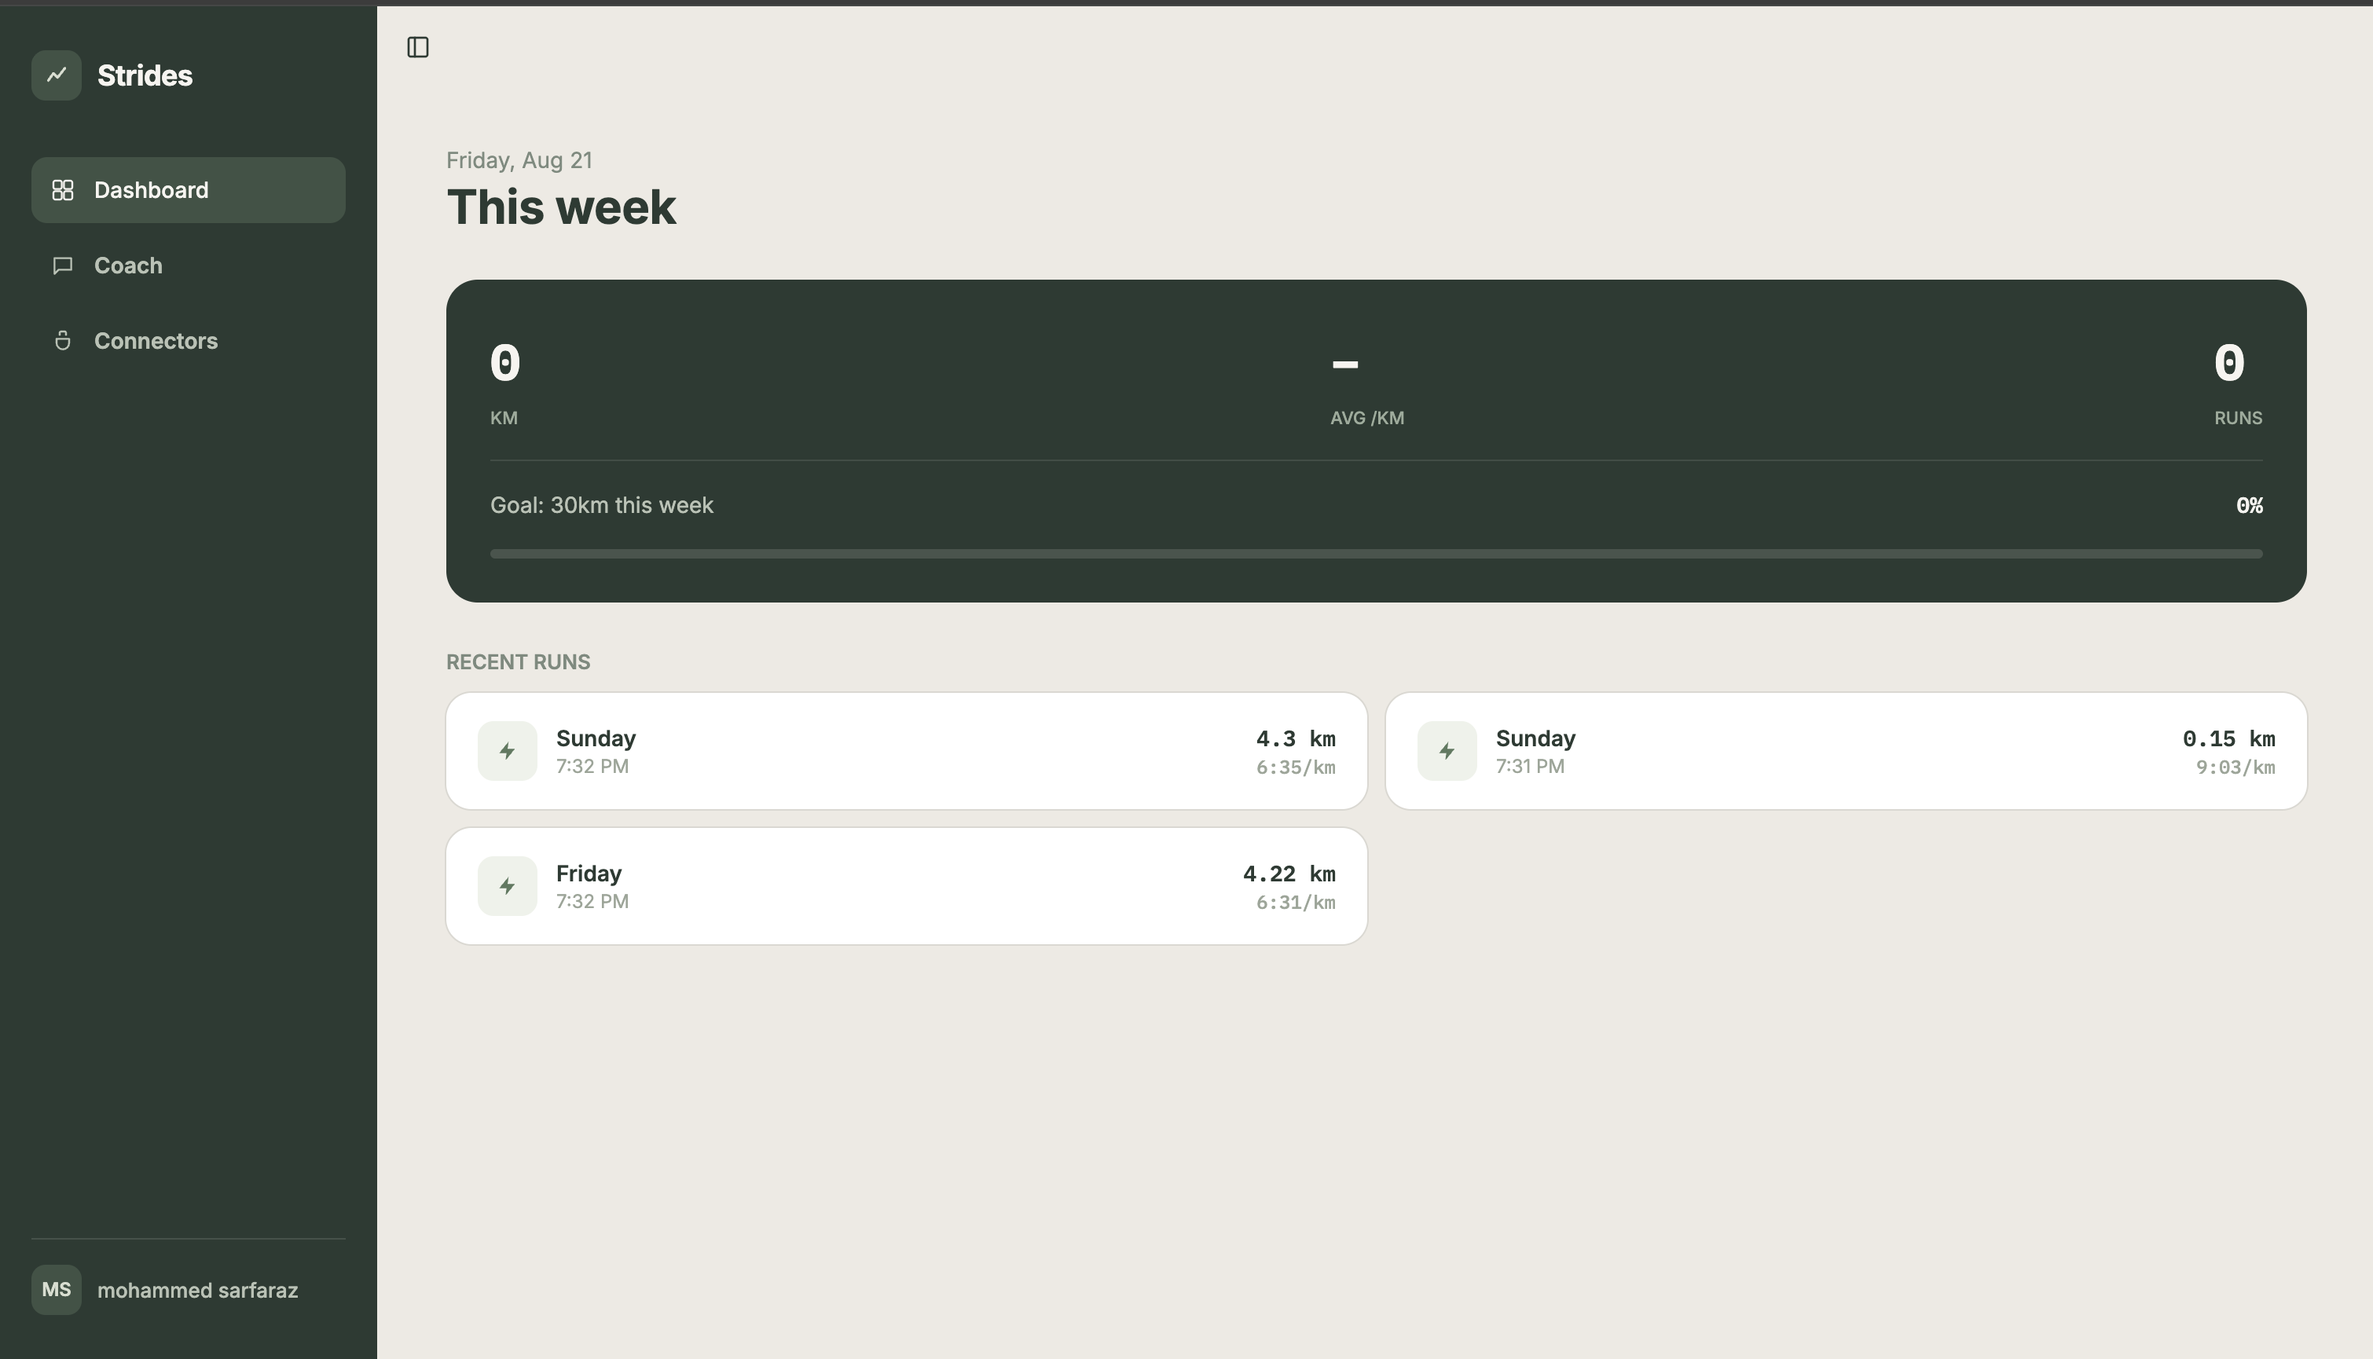
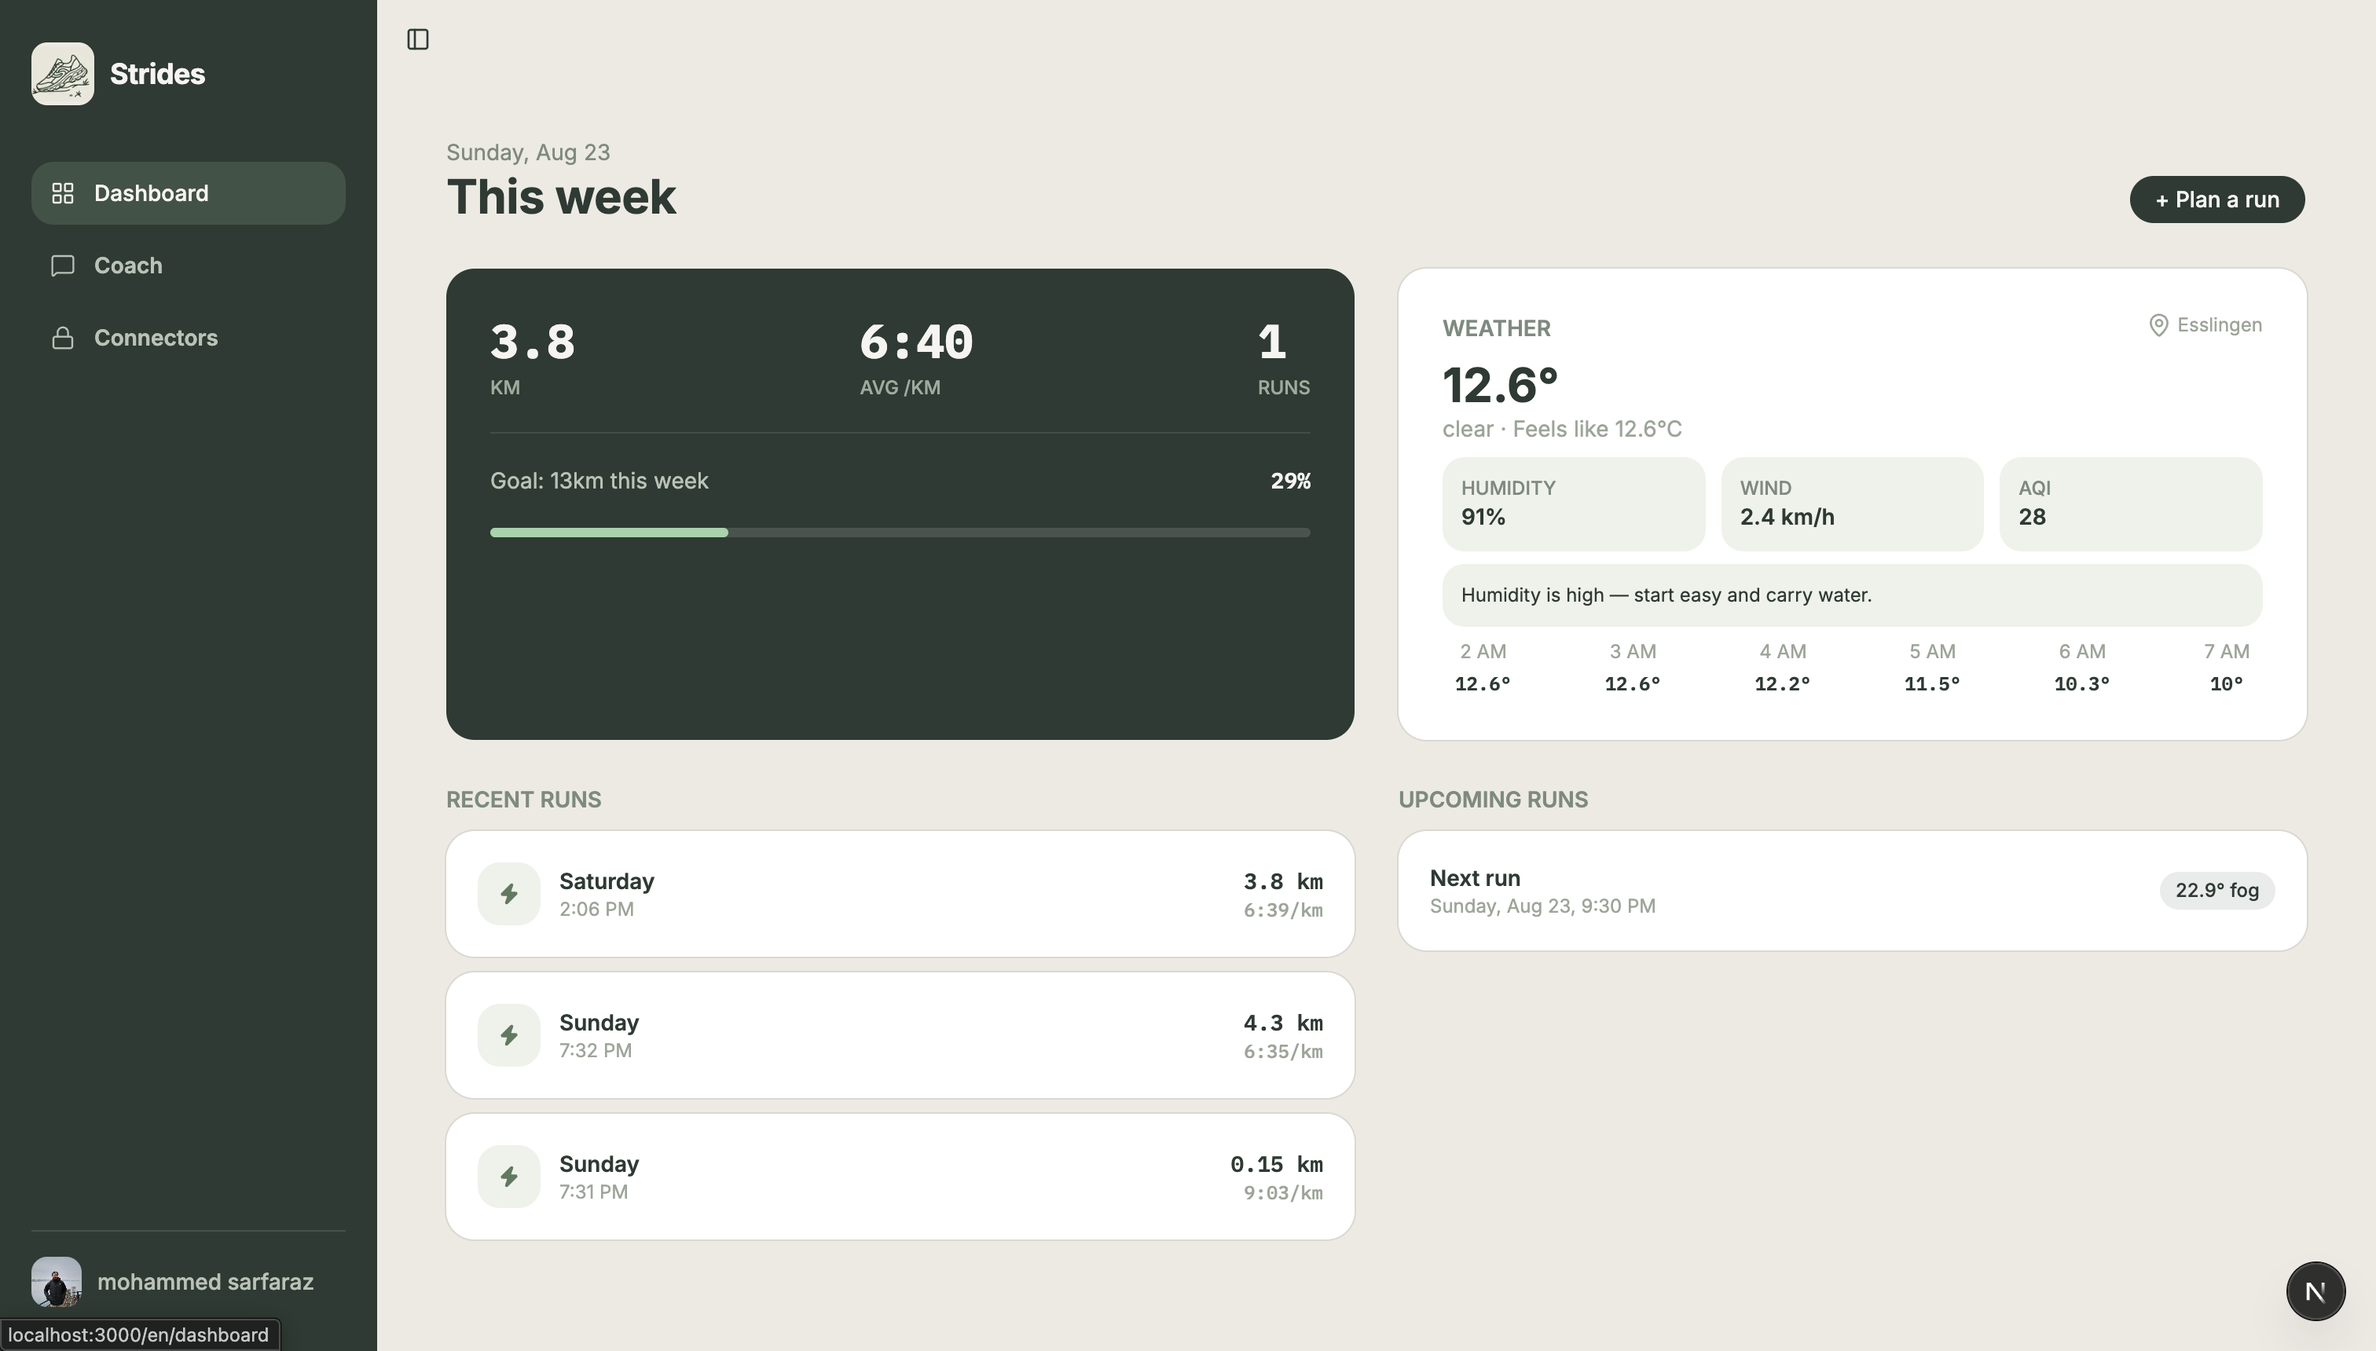
docs(readme): update README with latest features and refresh screenshots
Documents the Google Calendar connector, weather integration, PWA
installability, and restyles the header with logo/badges/live-demo link.
Adds an iOS home-screen icon (apple-icon.png) so Add to Home Screen
matches the Android manifest icon instead of falling back to a page
screenshot. Also includes a profile-screen spacing/truncation fix.

diff --git a/frontend/components/profile-screen.tsx b/frontend/components/profile-screen.tsx
@@ -150,7 +150,7 @@ export function ProfileScreen({ locale }: { locale: string }) {
 
   return (
     <div className="flex-1 overflow-y-auto px-4 lg:mx-auto lg:w-full lg:max-w-[960px] lg:px-0 lg:pb-9">
-      <div className="mb-3">
+      <div className="mb-3 mt-4 lg:mt-1">
         <SectionLabel>{t("eyebrow")}</SectionLabel>
         <div className="text-2xl font-bold tracking-[-0.3px] text-primary lg:text-3xl">{t("title")}</div>
       </div>
@@ -159,24 +159,18 @@ export function ProfileScreen({ locale }: { locale: string }) {
       {error && <div className="mb-4 rounded-xl bg-danger/10 p-3 text-sm text-danger">{t("saveFailed")}</div>}
 
       <div className="mb-3 flex flex-col gap-4 rounded-xl bg-primary p-6 lg:mb-4 lg:gap-5 lg:p-7">
-        <div className="flex items-start justify-between gap-3">
-          <div className="flex items-center gap-3.5 lg:gap-4">
-            <Button
-              type="button"
-              variant="ghost"
-              onClick={triggerUpload}
-              disabled={isUploading}
-              className="group relative h-auto flex-none rounded-xl p-0 hover:bg-transparent"
-            >
+        <div className="flex items-center justify-between gap-3">
+          <div className="flex min-w-0 items-center gap-3.5 lg:gap-4">
+            <Button type="button" variant="ghost" onClick={triggerUpload} disabled={isUploading} className="group relative h-auto flex-none rounded-xl p-0 hover:bg-transparent">
               <Avatar user={user} size="lg" />
               <div className="absolute inset-0 flex items-center justify-center rounded-full bg-black/50 opacity-0 transition-opacity group-hover:opacity-100">
                 {isUploading ? <div className="h-5 w-5 animate-spin rounded-full border-2 border-white border-t-transparent" /> : <Camera size={18} className="text-white" />}
               </div>
             </Button>
             <input ref={fileInputRef} type="file" accept="image/jpeg,image/png" aria-label={t("changeAvatar")} className="hidden" onChange={onFileChosen} />
-            <div>
-              <div className="text-lg font-bold text-primary-foreground lg:text-2xl">{displayName}</div>
-              <div className="text-sm text-goal-label lg:text-sm">{user?.email ?? ""}</div>
+            <div className="min-w-0">
+              <div className="truncate text-lg font-bold text-primary-foreground lg:text-2xl">{displayName}</div>
+              <div className="truncate text-sm text-goal-label lg:text-sm">{user?.email ?? ""}</div>
             </div>
           </div>
           <Button
@@ -289,7 +283,7 @@ export function ProfileScreen({ locale }: { locale: string }) {
         </div>
       </Card>
 
-      <Card className="gap-0 rounded-xl px-4 py-1 lg:px-6">
+      <Card className="mt-3 gap-0 rounded-xl px-4 py-1 lg:mt-4 lg:px-6">
         <SectionLabel className="pt-3">{t("account")}</SectionLabel>
         <div className="flex items-center justify-between gap-3 py-3.5">
           <div>

diff --git a/README.md b/README.md
@@ -1,8 +1,21 @@
-# Strides
+<div align="center">
+  <img src="frontend/public/icon-192.png" alt="Strides logo" width="96" height="96" />
 
-**A personal running coach agent that lives in your browser.**
+  # Strides
 
-Strides connects to your Google Health data, understands your training history, and lets you chat with an AI coach about your runs — pace trends, weekly mileage, recovery, whatever you'd ask a real coach. It's a full-stack agent application: a custom MCP server for tool use, a streaming chat loop backed by Claude, long-term memory across conversations, and multi-user auth with encrypted token storage.
+  ### Your running coach, always on.
+
+  Strides connects to your Google Health data, understands your training history, and lets you chat with an AI coach about your runs — pace trends, weekly mileage, recovery, whatever you'd ask a real coach. It also connects to Google Calendar so the coach can plan runs and check your schedule. It's a full-stack agent application: a custom MCP server for tool use, a streaming chat loop backed by Claude, long-term memory across conversations, and multi-user auth with encrypted token storage. It's also an installable PWA — add it to your home screen on Android or iPhone and it runs like a native app.
+
+  **[Live demo →](https://strides-inky.vercel.app)**
+
+  ![Next.js](https://img.shields.io/badge/frontend-Next.js-black)
+  ![FastAPI](https://img.shields.io/badge/backend-FastAPI-009688)
+  ![Python](https://img.shields.io/badge/python-3.11+-3776AB)
+  ![MCP](https://img.shields.io/badge/tool%20use-MCP-6366F1)
+  ![PWA](https://img.shields.io/badge/installable-PWA-5A0FC8)
+  ![Deploy](https://img.shields.io/badge/deployed-Cloud%20Run%20%2B%20Vercel-4285F4)
+</div>
 
 ## Screenshots
 
@@ -11,9 +24,19 @@ Strides connects to your Google Health data, understands your training history, 
   <img src="docs/images/sign-in.png" alt="Sign-in screen" width="70%" />
 </p>
 
-**Dashboard**
+**Dashboard** — weekly stats, weather, recent and upcoming runs
 <p align="center">
   <img src="docs/images/dashboard.png" alt="Dashboard screen" width="70%" />
+</p>
+
+**Coach** — chat with the agent about your training
+<p align="center">
+  <img src="docs/images/coach.png" alt="Coach chat screen" width="70%" />
+</p>
+
+**Connectors** — Google Health and Google Calendar
+<p align="center">
+  <img src="docs/images/connectors.png" alt="Connectors screen" width="70%" />
 </p>
 
 **Profile & preferences**
@@ -25,23 +48,24 @@ Strides connects to your Google Health data, understands your training history, 
 
 ```
 +----------------+         +----------------+         +----------------+
-|    Next.js     |         |    FastAPI     |         |   MCP Server   |
-|    frontend    | <------>|    backend     | <------>|   (fit_server) |
-|    (Vercel)    | HTTP/SSE|  (Cloud Run)   |JWT/JWKS |  (Cloud Run)   |
+|    Next.js     |         |    FastAPI     |         |  MCP Servers   |
+|    frontend    | <------>|    backend     | <------>| (fit_server,   |
+|    (Vercel)    | HTTP/SSE|  (Cloud Run)   |JWT/JWKS |  calendar_srv) |
 +----------------+         +----------------+         +----------------+
 
                                     |                          |
                                     v                          v
-                           +----------------+         +----------------+
-                           |    Postgres    |         | Google Health  |
-                           |   (Supabase)   |         |      API       |
-                           +----------------+         +----------------+
+                           +----------------+       +------------------------+
+                           |    Postgres    |       | Google Health API,     |
+                           |   (Supabase)   |       | Google Calendar API,   |
+                           +----------------+       | Open-Meteo (weather)   |
+                                                     +------------------------+
 ```
 
 - **Frontend** — Next.js app (dashboard, chat, connectors, profile). Talks to the backend over HTTP, streams chat responses via SSE.
-- **Backend** — FastAPI. Owns user sessions (Google OAuth), the Claude tool-use chat loop, and per-user preferences/memory. Signs a short-lived JWT per request to call the MCP server on the user's behalf.
-- **MCP server** — a Model Context Protocol server exposing tools (`get_runs`, `get_recent_runs`, `get_weekly_stats`, …) that fetch and aggregate a user's data from the **Google Health API**. Independently verifies the backend's JWT via a JWKS endpoint — it never trusts the backend blindly.
-- **Postgres (Supabase)** — users, sessions, encrypted OAuth tokens, preferences, chat history, and long-term agent memory (facts the agent chooses to remember across conversations, e.g. "training for a half marathon in October").
+- **Backend** — FastAPI. Owns user sessions (Google OAuth), the Claude tool-use chat loop, and per-user preferences/memory. Signs a short-lived JWT per request to call each MCP server on the user's behalf, and fetches weather for the dashboard.
+- **MCP servers** — two Model Context Protocol servers, one per connector: `fit_server` exposes tools (`get_runs`, `get_recent_runs`, `get_weekly_stats`, …) over the **Google Health API**; `calendar_server` exposes tools for reading and planning events over the **Google Calendar API**. Each independently verifies the backend's JWT via a JWKS endpoint — neither trusts the backend blindly.
+- **Postgres (Supabase)** — users, sessions, encrypted OAuth tokens (Health and Calendar, separately), preferences, chat history, and long-term agent memory (facts the agent chooses to remember across conversations, e.g. "training for a half marathon in October").
 
 **Note on the data source:** this talks to the **Google Health API** (`health.googleapis.com`), not the old Google Fit REST API — that one is closed to new developers and being fully deprecated. Google Health is backed by Fitbit's account system; a user needs data actually synced there (not just the Google Fit app) for the API to return anything.
 
@@ -49,11 +73,12 @@ Strides connects to your Google Health data, understands your training history, 
 
 | Layer | Stack |
 |---|---|
-| Frontend | Next.js, TypeScript, Tailwind, shadcn/ui, next-intl (en/de), React Query |
+| Frontend | Next.js, TypeScript, Tailwind, shadcn/ui, next-intl (en/de), React Query, installable PWA (manifest + service worker, Android/iOS home-screen install) |
 | Backend | FastAPI, Python, Anthropic SDK (Claude), `uv` for dependency management |
-| MCP server | Python, [MCP SDK](https://github.com/modelcontextprotocol) (Streamable HTTP transport) |
+| MCP servers | Python, [MCP SDK](https://github.com/modelcontextprotocol) (Streamable HTTP transport) |
 | Database | Postgres (Supabase), AES-256-GCM at-rest token encryption |
-| Auth | Google OAuth 2.0 (identity + separate Health-data grant), RS256 JWT + JWKS for backend↔MCP auth |
+| Auth | Google OAuth 2.0 (identity + separate Health-data and Calendar-data grants), RS256 JWT + JWKS for backend↔MCP auth |
+| Weather | Open-Meteo (forecast + air quality APIs) |
 | Infra | Docker, Google Cloud Run, Artifact Registry, GitHub Actions (Workload Identity Federation — no stored service account keys), Vercel |
 | Observability | Langfuse (LLM call tracing) |
 
@@ -61,7 +86,7 @@ Strides connects to your Google Health data, understands your training history, 
 
 Requires [`uv`](https://docs.astral.sh/uv/) (Python) and Node.js (for the frontend).
 
-**1. Backend + MCP server**
+**1. Backend + MCP servers**
 
 ```bash
 uv sync
@@ -80,8 +105,9 @@ TOKEN_ENCRYPTION_KEY=
 `DATABASE_URL` points at a Postgres instance (Supabase locally or otherwise) — the schema is created automatically on startup, no manual migration step. `TOKEN_ENCRYPTION_KEY` is a symmetric AES-256-GCM key used to encrypt OAuth tokens at rest; generate one with `openssl rand -base64 32`.
 
 ```bash
-# MCP server (run first — the backend calls it per-request)
-uv run python -m mcp_servers.fit_server.server
+# MCP servers (run first — the backend calls them per-request)
+uv run python -m mcp_servers.fit_server.server        # port 8001
+uv run python -m mcp_servers.calendar_server.server    # port 8002
 
 # Backend
 uv run uvicorn backend.agent:app --reload
@@ -96,16 +122,16 @@ cp .env.local.example .env.local   # set NEXT_PUBLIC_API_URL=http://localhost:80
 npm run dev
 ```
 
-Open `http://localhost:3000`, sign in with Google, and connect your Health data from the Connectors screen.
+Open `http://localhost:3000`, sign in with Google, and connect your Health and Calendar data from the Connectors screen.
 
 ## Deployment
 
-Deployed as: frontend on **Vercel**, backend + MCP server as separate **Google Cloud Run** services, built and pushed via **GitHub Actions**.
+Deployed as: frontend on **Vercel**, backend + both MCP servers as separate **Google Cloud Run** services, built and pushed via **GitHub Actions**.
 
 - GitHub Actions authenticates to GCP with **Workload Identity Federation** — no service account JSON key stored anywhere. A GCP Workload Identity Pool trusts GitHub's OIDC tokens, scoped to this exact repo only, and lets CI impersonate a narrowly-scoped deploy service account.
-- Both services are built as Docker images (multi-stage, `uv`-based), pushed to one Artifact Registry repo, tagged by commit SHA.
+- All three services are built as Docker images (multi-stage, `uv`-based), pushed to one Artifact Registry repo, tagged by commit SHA.
 - Secrets (API keys, DB URL, JWT signing keys, etc.) live in GitHub Actions repository secrets and are passed to Cloud Run as env vars at deploy time.
-- The backend and MCP server communicate over a custom RS256 JWT/JWKS scheme (not OAuth) — the backend mints a short-lived JWT per request, the MCP server verifies it independently against the backend's published public key.
+- The backend and each MCP server communicate over a custom RS256 JWT/JWKS scheme (not OAuth) — the backend mints a short-lived JWT per request, each MCP server verifies it independently against the backend's published public key.
 
 See `docs/superpowers/plans/2026-08-17-gcp-deployment.md` for the full deployment plan and one-time GCP setup steps (Artifact Registry, IAM, Workload Identity Federation).
 
@@ -120,9 +146,12 @@ strides/
 │   ├── jwt_issuer.py              # signs backend->MCP JWTs
 │   └── encryption.py              # AES-256-GCM token encryption
 ├── mcp_servers/
-│   └── fit_server/                # MCP server exposing Google Health tools
+│   ├── fit_server/                 # MCP server exposing Google Health tools
+│   │   ├── server.py
+│   │   └── mcp_auth.py              # verifies backend JWTs via JWKS
+│   └── calendar_server/            # MCP server exposing Google Calendar tools
 │       ├── server.py
-│       └── mcp_auth.py             # verifies backend JWTs via JWKS
+│       └── mcp_auth.py
 ├── auth/
 │   └── auth.py                    # Google OAuth token exchange/refresh
 ├── data/
@@ -140,6 +169,6 @@ strides/
 
 ## Status
 
-Multi-user architecture is live end-to-end, deployed, and working — auth, dashboard, chat (with tool use + long-term memory), and preferences all run against real infrastructure.
+Multi-user architecture is live end-to-end, deployed, and working — auth, dashboard, chat (with tool use + long-term memory), calendar-backed run planning, weather, and preferences all run against real infrastructure.
 
 **Open / not started:** local `docker-compose` for running everything together, context-window trimming for long conversations, multi-provider OAuth beyond Health, JWKS key rotation.
